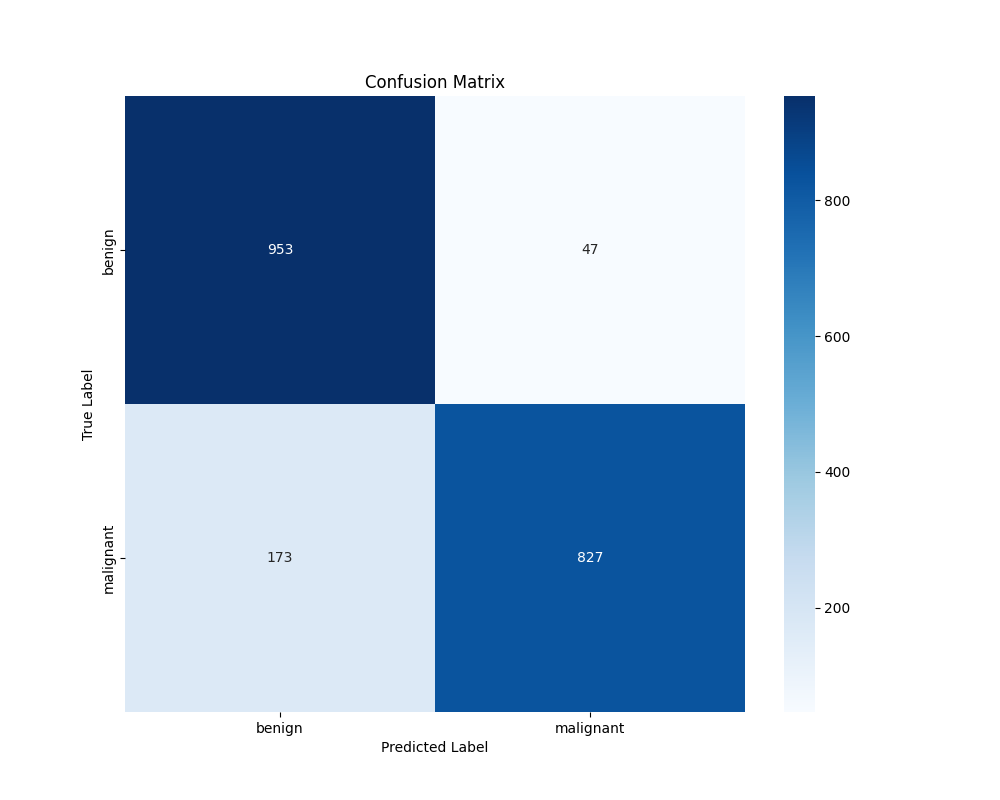
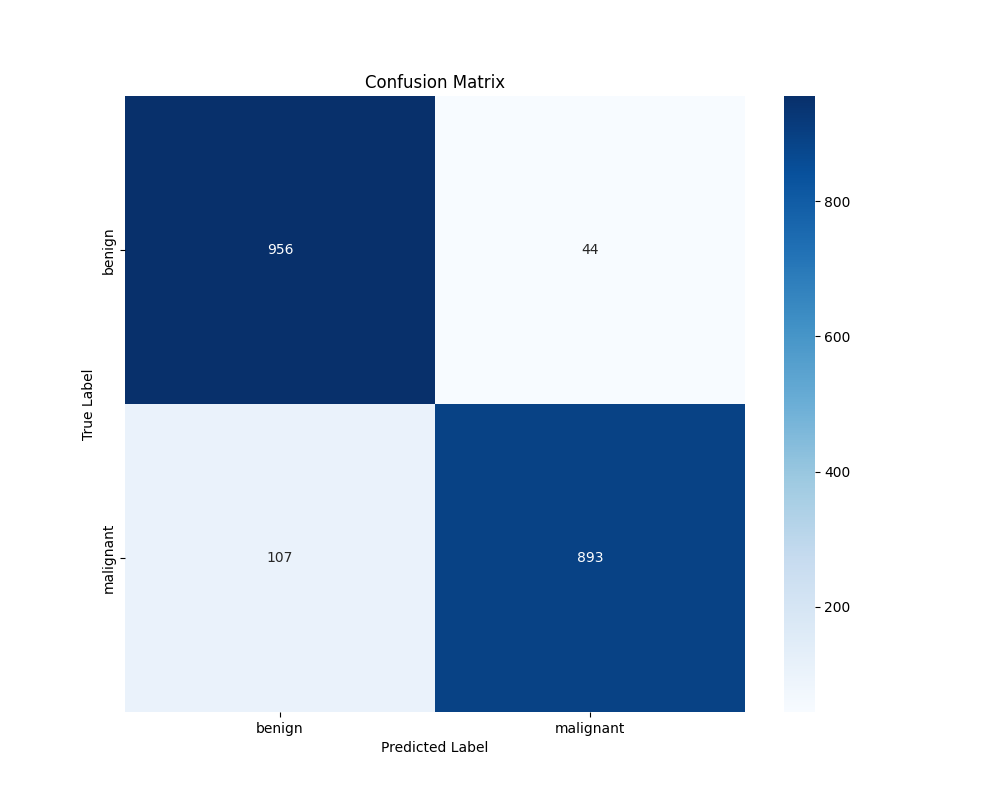
Model improvement for phase 2 learning

Changed region(s): [[0.434, 0.5, 0.744, 0.9062], [0.806, 0.75, 0.837, 0.7812], [0.279, 0.6875, 0.31, 0.7188]]

diff --git a/predict.py b/predict.py
@@ -7,7 +7,7 @@ import argparse
 from pathlib import Path
 import seaborn as sns
 import matplotlib.pyplot as plt
-from sklearn.metrics import confusion_matrix, classification_report
+from sklearn.metrics import confusion_matrix, classification_report, roc_curve, auc
 
 class MelanomaPredictor:
     def __init__(self, model_path='best_model.h5'):
@@ -130,6 +130,7 @@ class MelanomaPredictor:
         """
         true_labels = []
         predicted_labels = []
+        raw_predictions = []
         results_list = []
         
         try:
@@ -153,15 +154,35 @@ class MelanomaPredictor:
                         
                         true_labels.append(class_name)
                         predicted_labels.append(result['predicted_class'])
+                        raw_predictions.append(result['raw_prediction'])
                         
                     except Exception as e:
                         print(f"Warning: Failed to process {image_path}: {str(e)}")
                         continue
             
+            # Convert labels to binary for ROC curve
+            y_true = [1 if label == 'malignant' else 0 for label in true_labels]
+            
+            # Calculate ROC curve and AUC
+            fpr, tpr, _ = roc_curve(y_true, raw_predictions)
+            roc_auc = auc(fpr, tpr)
+            
+            # Plot ROC curve
+            plt.figure(figsize=(10, 8))
+            plt.plot(fpr, tpr, color='darkorange', lw=2, 
+                    label=f'ROC curve (AUC = {roc_auc:.2f})')
+            plt.plot([0, 1], [0, 1], color='navy', linestyle='--')
+            plt.xlim([0.0, 1.0])
+            plt.ylim([0.0, 1.05])
+            plt.xlabel('False Positive Rate')
+            plt.ylabel('True Positive Rate')
+            plt.title('Receiver Operating Characteristic (ROC) Curve')
+            plt.legend(loc="lower right")
+            plt.savefig('roc_curve.png')
+            plt.close()
+            
             # Calculation of metrics
             conf_matrix = confusion_matrix(true_labels, predicted_labels, labels=self.class_names)
-            class_report = classification_report(true_labels, predicted_labels, 
-                                              labels=self.class_names, output_dict=True)
             
             # Plotting confusion matrix
             plt.figure(figsize=(10, 8))
@@ -173,28 +194,35 @@ class MelanomaPredictor:
             plt.savefig('confusion_matrix.png')
             plt.close()
             
-            print("\nClassification Report:")
-            print(classification_report(true_labels, predicted_labels, labels=self.class_names))
-            
-            # Printing of confusion matrix interpretation
+            # Calculate combined metrics
             tn, fp, fn, tp = conf_matrix.ravel()
-            print("\nConfusion Matrix Interpretation:")
+            
+            accuracy = (tp + tn) / (tp + tn + fp + fn)
+            sensitivity = tp / (tp + fn) if (tp + fn) > 0 else 0
+            specificity = tn / (tn + fp) if (tn + fp) > 0 else 0
+            precision = tp / (tp + fp) if (tp + fp) > 0 else 0
+            f1_score = 2 * (precision * sensitivity) / (precision + sensitivity) if (precision + sensitivity) > 0 else 0
+            
+            print("\nOverall Model Metrics:")
+            print(f"Accuracy: {accuracy:.4f}")
+            print(f"Sensitivity/Recall: {sensitivity:.4f}")
+            print(f"Specificity: {specificity:.4f}")
+            print(f"Precision: {precision:.4f}")
+            print(f"F1 Score: {f1_score:.4f}")
+            print(f"AUC-ROC: {roc_auc:.4f}")
+            
+            print("\nConfusion Matrix Breakdown:")
             print(f"True Negatives (Correct Benign): {tn}")
             print(f"False Positives (Incorrect Malignant): {fp}")
             print(f"False Negatives (Incorrect Benign): {fn}")
             print(f"True Positives (Correct Malignant): {tp}")
             
-            # Calculation of additional metrics
-            accuracy = (tp + tn) / (tp + tn + fp + fn)
-            sensitivity = tp / (tp + fn) if (tp + fn) > 0 else 0
-            specificity = tn / (tn + fp) if (tn + fp) > 0 else 0
-            
-            print("\nAdditional Metrics:")
-            print(f"Accuracy: {accuracy:.4f}")
-            print(f"Sensitivity (True Positive Rate): {sensitivity:.4f}")
-            print(f"Specificity (True Negative Rate): {specificity:.4f}")
-            
-            return results_list, class_report, conf_matrix
+            return results_list, conf_matrix, {'accuracy': accuracy, 
+                                             'sensitivity': sensitivity,
+                                             'specificity': specificity,
+                                             'precision': precision,
+                                             'f1_score': f1_score,
+                                             'auc_roc': roc_auc}
             
         except Exception as e:
             raise Exception(f"Error evaluating test directory: {str(e)}")
@@ -211,7 +239,6 @@ def main():
     args = parser.parse_args()
     
     try:
-        
         predictor = MelanomaPredictor(args.model)
         
         if args.evaluate:

diff --git a/run_prediction.py b/run_prediction.py
@@ -1,9 +1,11 @@
 from predict import MelanomaPredictor
 
-SINGLE_IMAGE_PATH = "C:/Users/marti/Desktop/ICS 4.2/Project/archive/test/Malignant/5616.jpg"    # Path for prediction of a single image
-BATCH_FOLDER_PATH = "C:/Users/marti/Desktop/ICS 4.2/Project/archive/test/Malignant"         # Path for prediction for a single directory i.e Malignant or Benign 
-TEST_DIRECTORY_PATH = "C:/Users/marti/Desktop/ICS 4.2/Project/archive/test"    # Path for prediction for entire test
-MODEL_PATH = "best_model.h5"                        
+# Path configurations
+SINGLE_IMAGE_PATH = "C:/Users/marti/Desktop/ICS 4.2/Project/archive/test/Malignant/5616.jpg"
+BATCH_FOLDER_PATH = "C:/Users/marti/Desktop/ICS 4.2/Project/archive/test/Malignant"
+TEST_DIRECTORY_PATH = "C:/Users/marti/Desktop/ICS 4.2/Project/archive/test"
+MODEL_PATH = "best_model.h5"
+
 def run_single_prediction(predictor):
     """Run prediction on a single image"""
     print("\n=== Single Image Prediction ===")
@@ -28,13 +30,13 @@ def run_batch_prediction(predictor):
         print(f"Error with batch prediction: {str(e)}")
 
 def run_evaluation(predictor):
-    """Run evaluation on test directory with confusion matrix"""
-    print("\n=== Full Evaluation with Confusion Matrix ===")
+    """Run evaluation on test directory with confusion matrix and detailed metrics"""
+    print("\n=== Full Evaluation with Metrics ===")
     try:
         print(f"\nEvaluating test directory: {TEST_DIRECTORY_PATH}")
         print("This directory should contain 'benign' and 'malignant' subdirectories")
         
-        results, class_report, conf_matrix = predictor.evaluate_test_directory(TEST_DIRECTORY_PATH)
+        results, conf_matrix, metrics = predictor.evaluate_test_directory(TEST_DIRECTORY_PATH)
         
         print("\n--- Individual Predictions ---")
         for result in results:
@@ -42,29 +44,54 @@ def run_evaluation(predictor):
             print(f"Predicted class: {result['predicted_class']}")
             print(f"Confidence: {result['confidence']:.2f}%")
             
-        print("\nConfusion matrix has been saved as 'confusion_matrix.png'")
+        print("\nConfusion matrix and ROC curve have been saved as 'confusion_matrix.png' and 'roc_curve.png'")
         
-        # Key metrics from the classification report
-        print("\n--- Key Metrics ---")
-        print(f"Overall Accuracy: {class_report['accuracy']:.4f}")
-        print("\nPer-Class Metrics:")
-        for class_name in ['benign', 'malignant']:
-            print(f"\n{class_name.capitalize()}:")
-            print(f"Precision: {class_report[class_name]['precision']:.4f}")
-            print(f"Recall: {class_report[class_name]['recall']:.4f}")
-            print(f"F1-Score: {class_report[class_name]['f1-score']:.4f}")
+        # Combined Metrics
+        print("\n=== Combined Model Metrics ===")
+        print(f"Overall Accuracy: {metrics['accuracy']:.4f}")
+        print(f"Overall Sensitivity/Recall: {metrics['sensitivity']:.4f}")
+        print(f"Overall Specificity: {metrics['specificity']:.4f}")
+        print(f"Overall Precision: {metrics['precision']:.4f}")
+        print(f"Overall F1 Score: {metrics['f1_score']:.4f}")
+        print(f"AUC-ROC Score: {metrics['auc_roc']:.4f}")
+        
+        # Confusion Matrix Values
+        tn, fp, fn, tp = conf_matrix.ravel()
+        print("\n=== Confusion Matrix Breakdown ===")
+        print(f"True Negatives (Correct Benign): {tn}")
+        print(f"False Positives (Incorrect Malignant): {fp}")
+        print(f"False Negatives (Incorrect Benign): {fn}")
+        print(f"True Positives (Correct Malignant): {tp}")
+        
+        # Per-Class Metrics
+        print("\n=== Per-Class Metrics ===")
+        
+        # Benign metrics
+        print("\nBenign Class:")
+        benign_precision = tn / (tn + fn) if (tn + fn) > 0 else 0
+        benign_recall = tn / (tn + fp) if (tn + fp) > 0 else 0
+        benign_f1 = 2 * (benign_precision * benign_recall) / (benign_precision + benign_recall) if (benign_precision + benign_recall) > 0 else 0
+        print(f"Precision: {benign_precision:.4f}")
+        print(f"Recall: {benign_recall:.4f}")
+        print(f"F1-Score: {benign_f1:.4f}")
+        
+        # Malignant metrics
+        print("\nMalignant Class:")
+        malignant_precision = tp / (tp + fp) if (tp + fp) > 0 else 0
+        malignant_recall = tp / (tp + fn) if (tp + fn) > 0 else 0
+        malignant_f1 = 2 * (malignant_precision * malignant_recall) / (malignant_precision + malignant_recall) if (malignant_precision + malignant_recall) > 0 else 0
+        print(f"Precision: {malignant_precision:.4f}")
+        print(f"Recall: {malignant_recall:.4f}")
+        print(f"F1-Score: {malignant_f1:.4f}")
             
     except Exception as e:
         print(f"Error with evaluation: {str(e)}")
 
 def main():
-   
     predictor = MelanomaPredictor(model_path=MODEL_PATH)
     
     run_single_prediction(predictor)
-
     run_batch_prediction(predictor)
-    
     run_evaluation(predictor)
 
 if __name__ == "__main__":

diff --git a/train.py b/train.py
@@ -13,6 +13,7 @@ def save_training_metrics(history, phase):
     with open(metrics_file, 'w') as f:
         json.dump(history.history, f)
     
+
     plt.figure()
     plt.plot(history.history['accuracy'], label='Training Accuracy')
     plt.plot(history.history['val_accuracy'], label='Validation Accuracy')
@@ -23,6 +24,7 @@ def save_training_metrics(history, phase):
     plt.savefig(f'phase_{phase}_accuracy.png')
     plt.close()
     
+    # Create loss plot
     plt.figure()
     plt.plot(history.history['loss'], label='Training Loss')
     plt.plot(history.history['val_loss'], label='Validation Loss')
